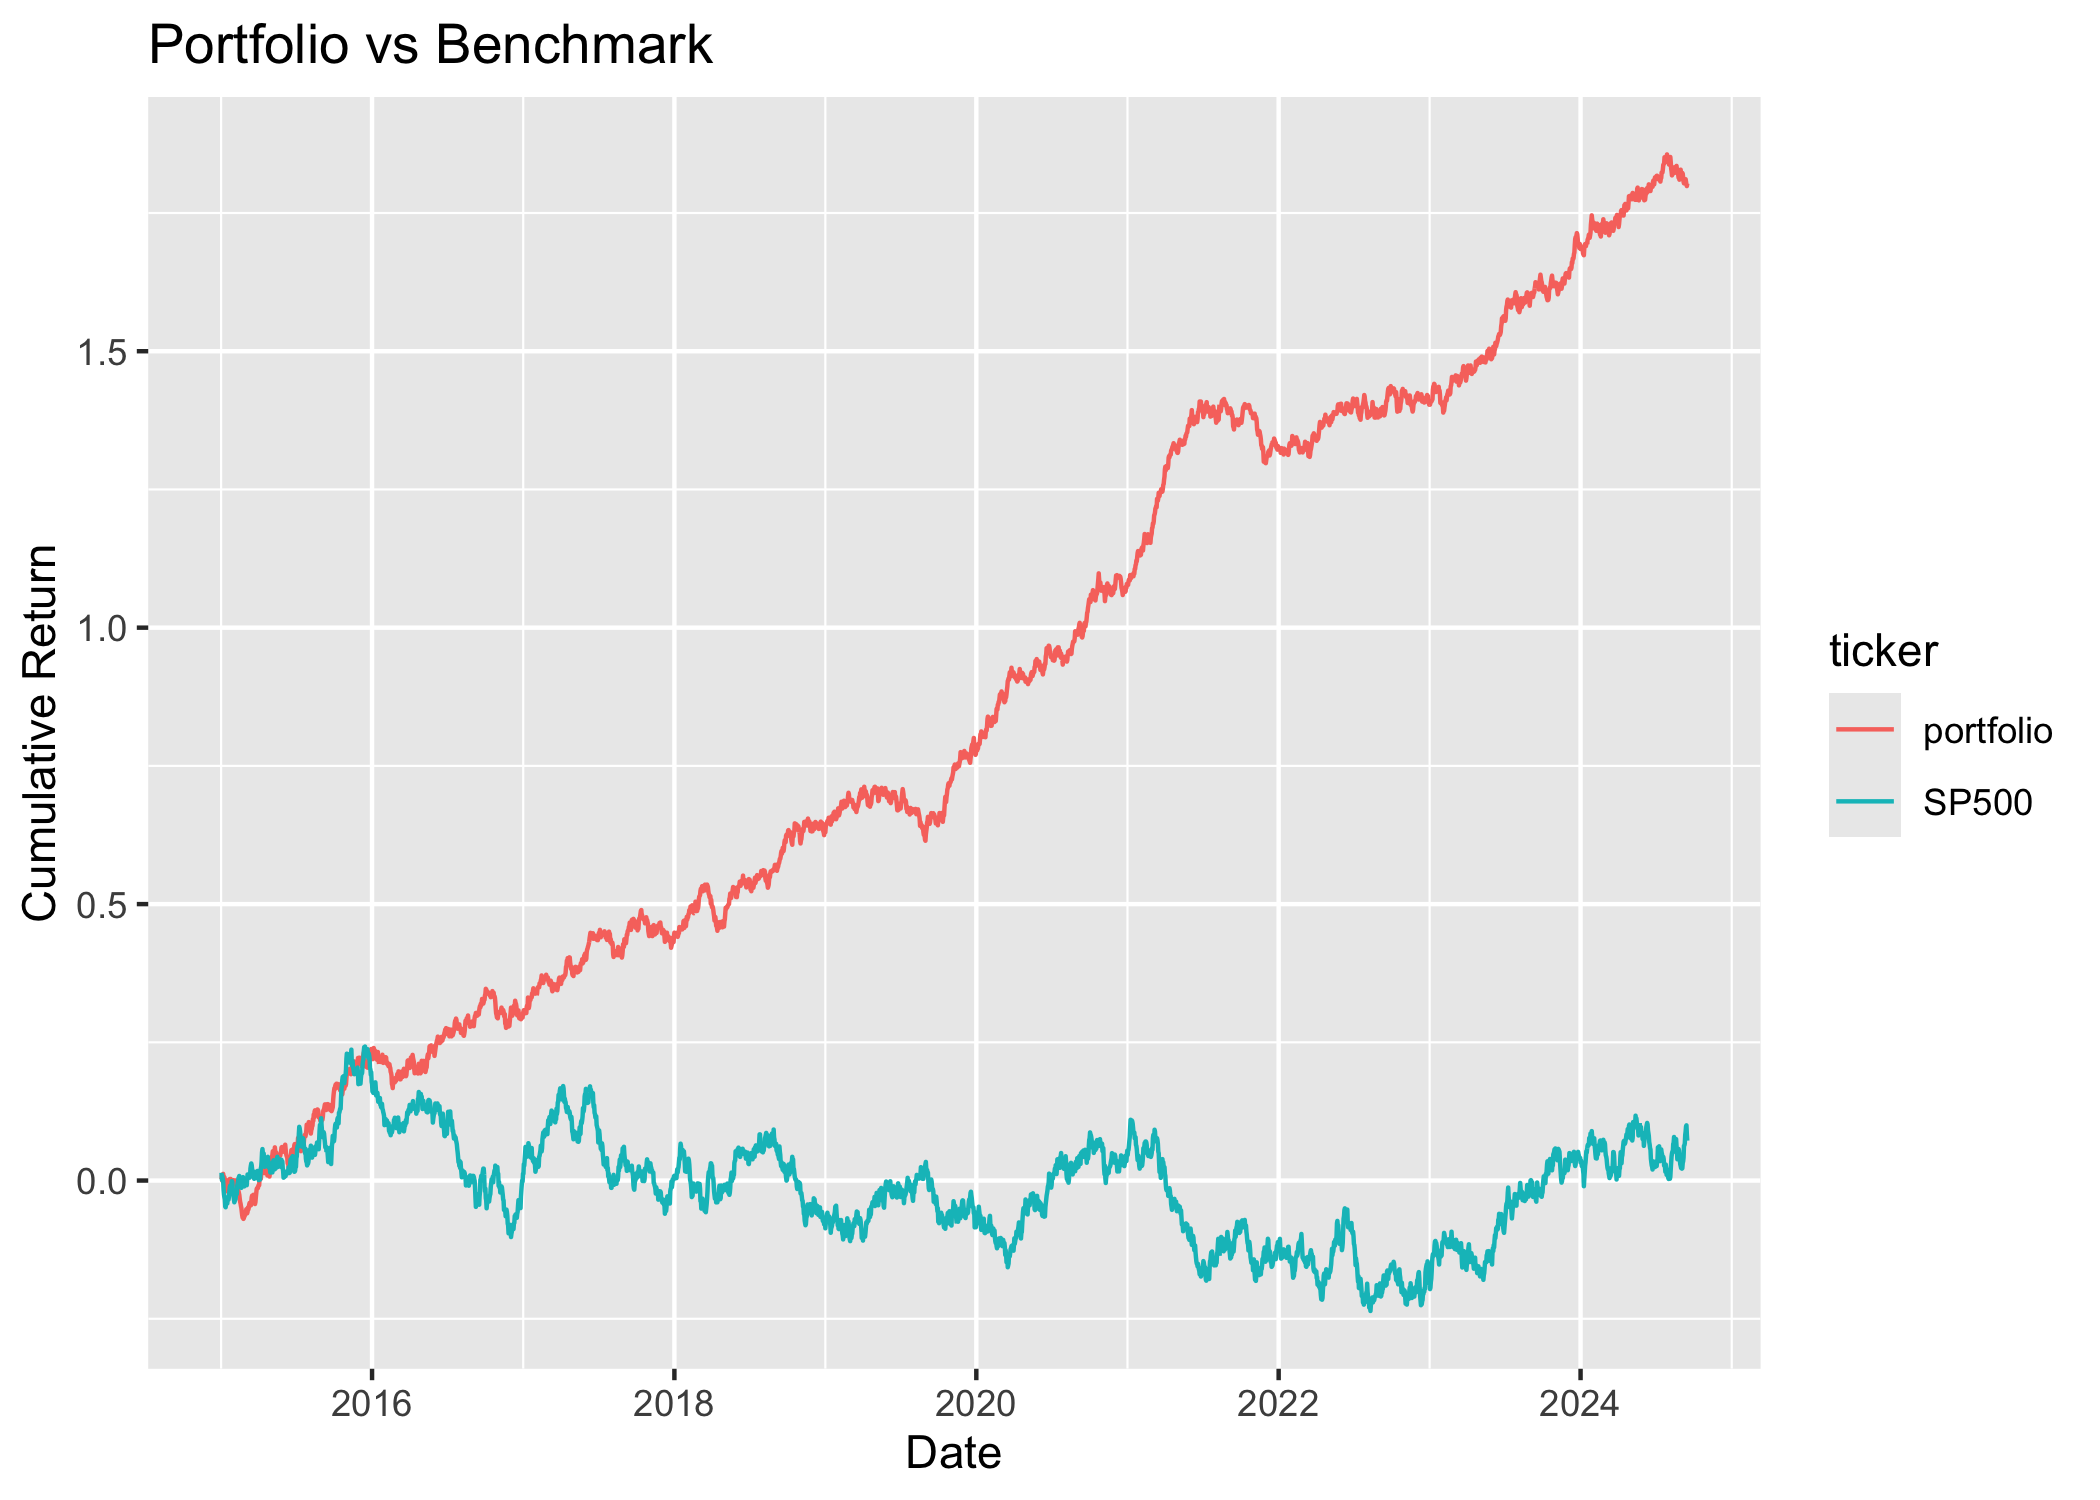
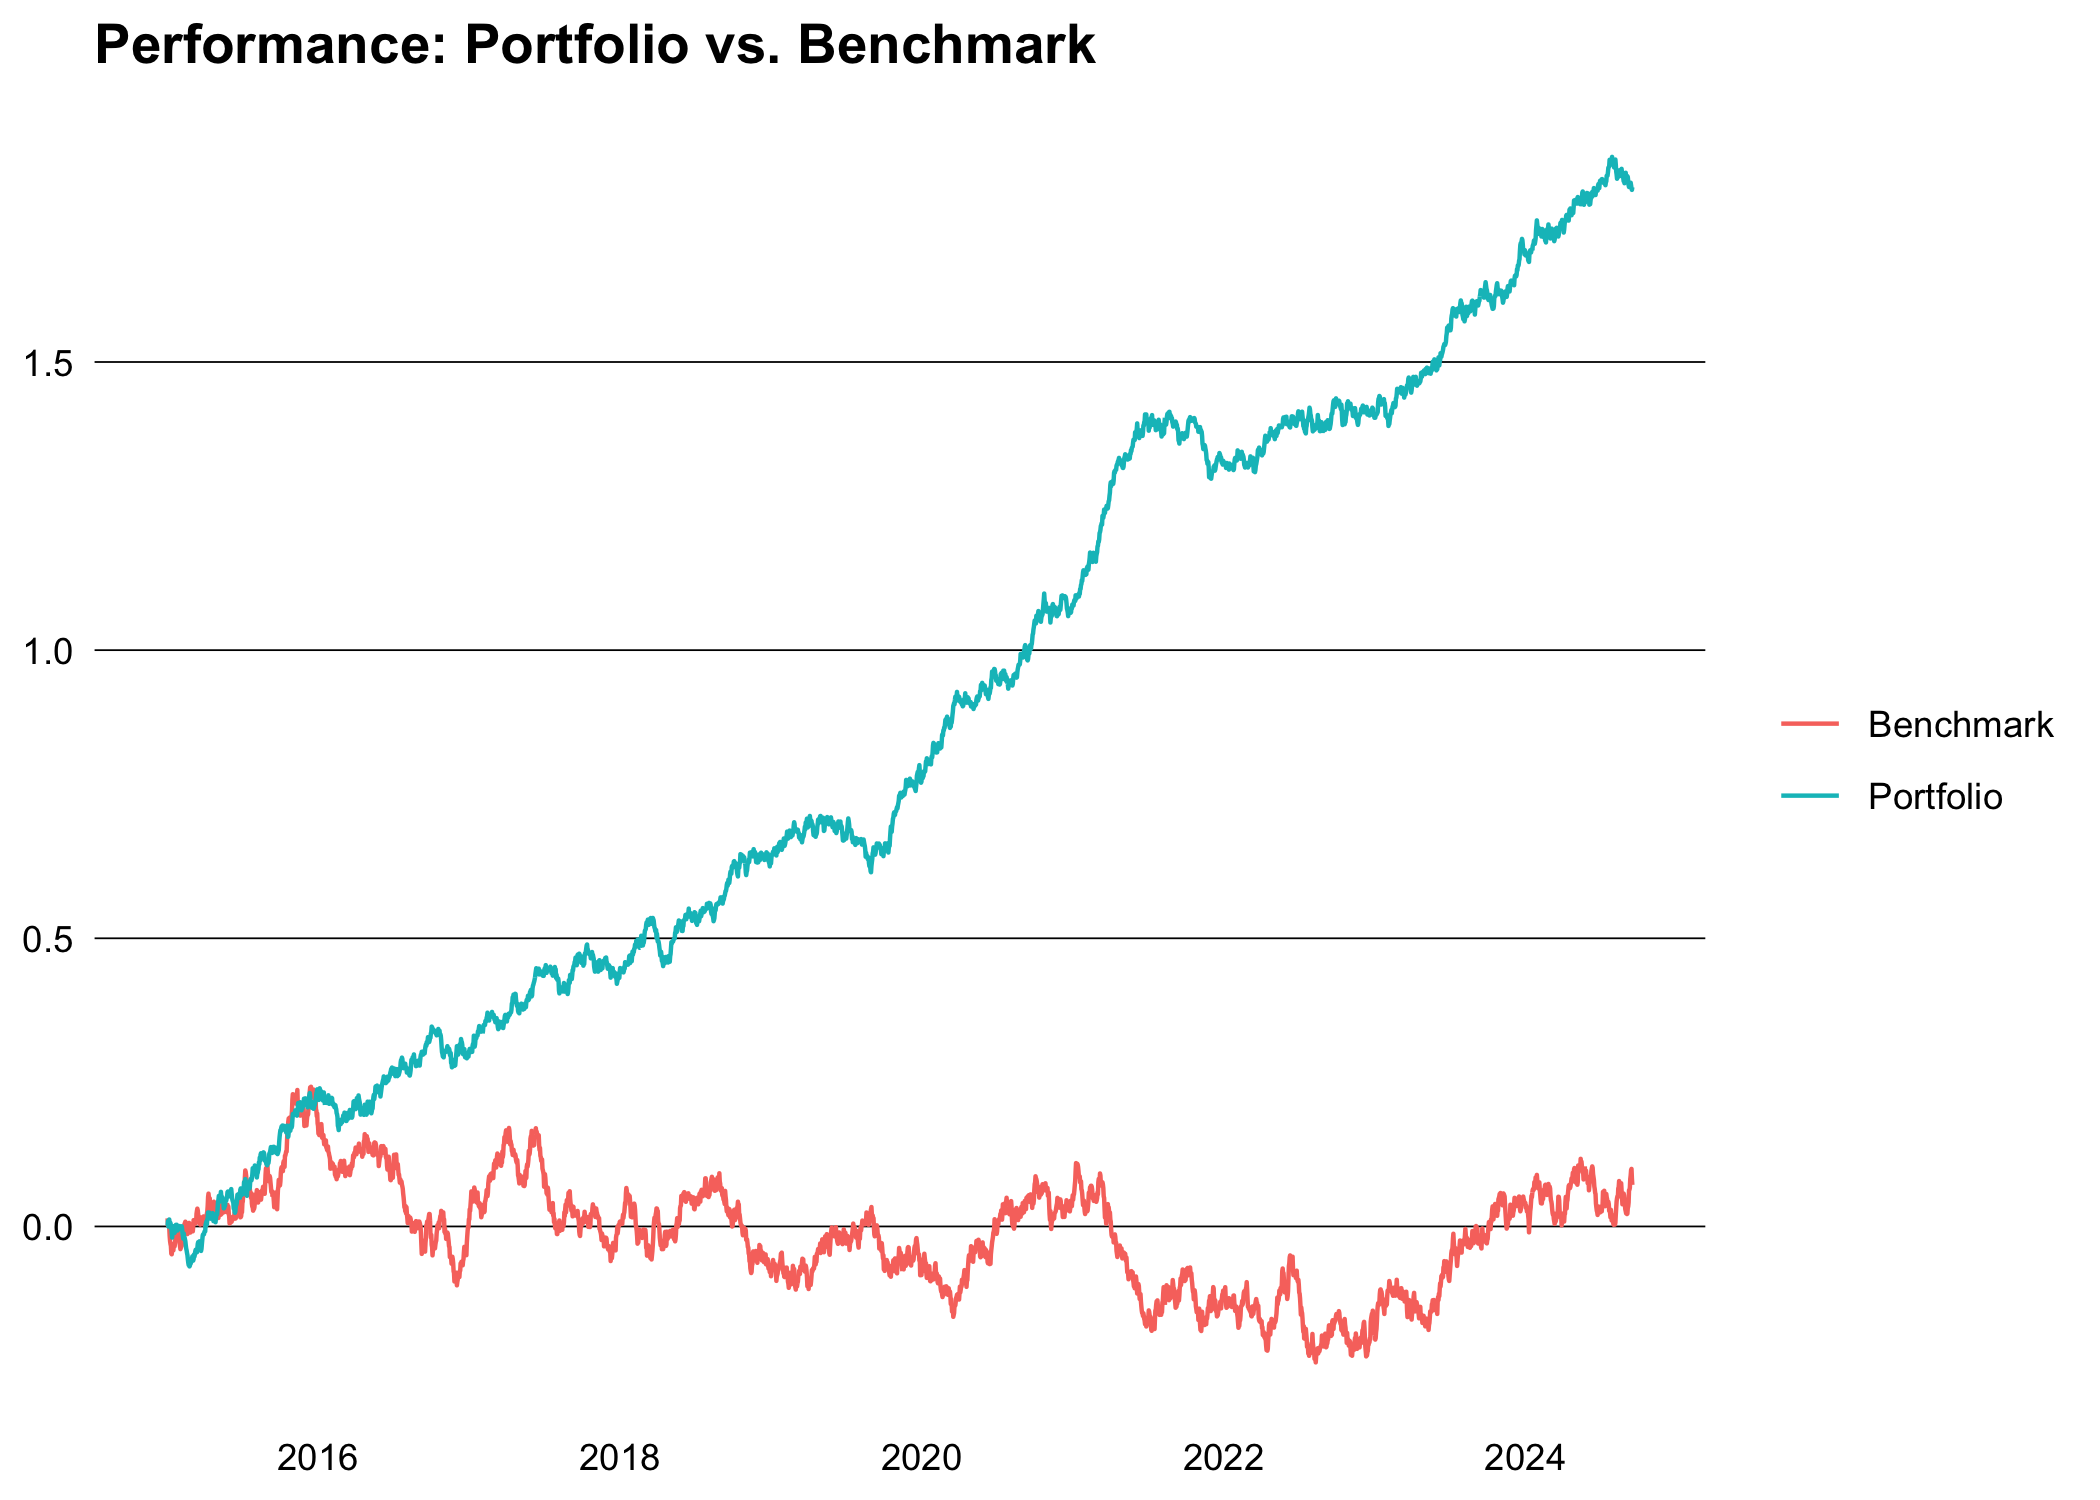
change the lables of the plot

diff --git a/README.md b/README.md
@@ -131,24 +131,31 @@ bmr <- generate_benchmark(start_date, end_date) |>
   na.omit("ret")
 
 port <- dt |>
-  _[, .(ret = sum(wret), ticker = "portfolio"), by = date] |>
+  _[, .(ret = sum(wret), ticker = "Portfolio"), by = date] |>
   rbind(bmr[, .(ticker, date, ret)]) |>
   setorder(ticker, date) |>
-  _[, cum_ret := cumsum(ret), by = ticker][]
+  _[, cum_ret := cumsum(ret), by = ticker] |>
+  _[, ticker := fifelse(ticker == "Portfolio", ticker, "Benchmark")]
 ```
 
-Plotting the cumulative return:
+Compare the portfolio with the benchmark performance:
 
 ``` r
 library(ggplot2)
 
 ggplot(port, aes(x = date, y = cum_ret, color = ticker)) +
   geom_line() +
-  labs(
-    title = "Portfolio vs Benchmark",
-    x = "Date",
-    y = "Cumulative Return"
-  )
+  theme_minimal() +
+  theme(
+    plot.title = element_text(face = "bold"),
+    panel.grid.major.y = element_line(color = "black", linewidth = 0.2),
+    panel.grid.major.x = element_blank(),
+    panel.grid.minor = element_blank(),
+    axis.text = element_text(color = "black"),
+    axis.title = element_blank(),
+    legend.title = element_blank()
+  ) +
+  labs(title = "Performance: Portfolio vs. Benchmark")
 ```
 
 ![](README_files/figure-commonmark/unnamed-chunk-6-1.png)
